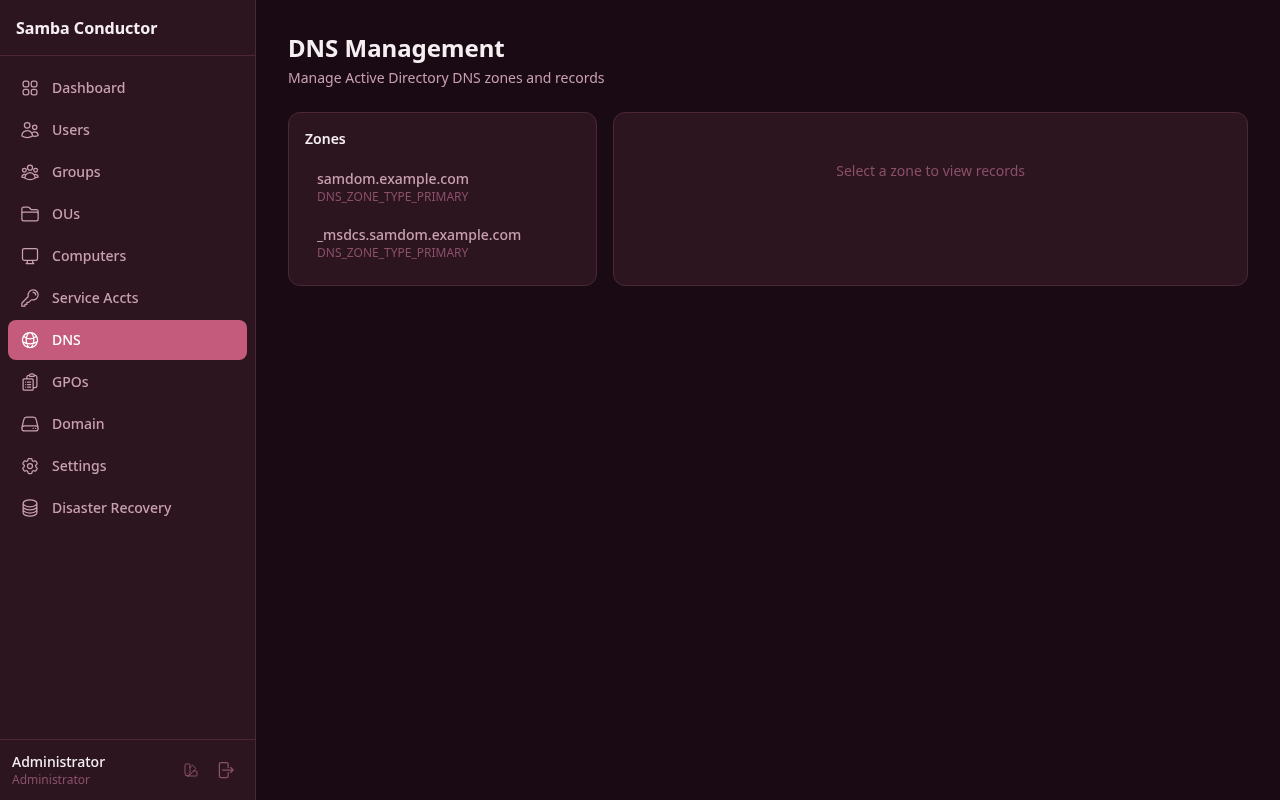
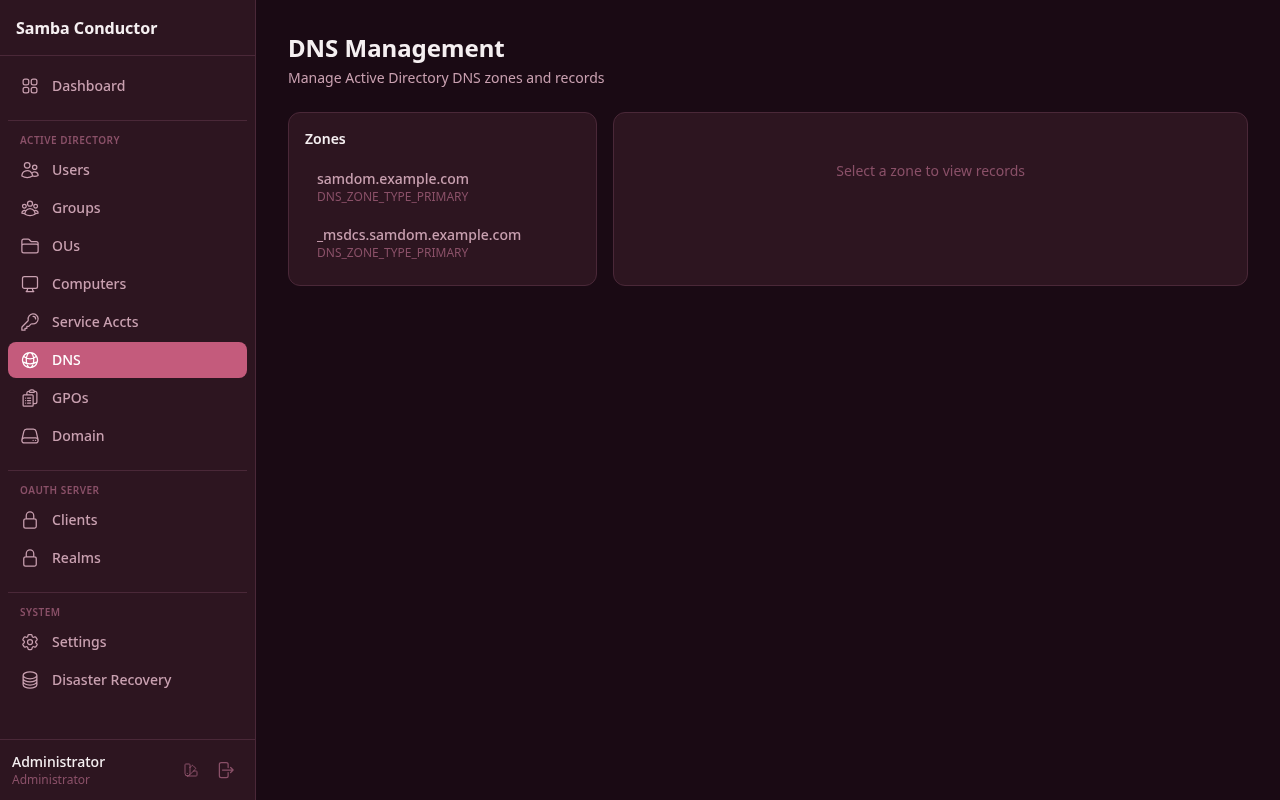
Add OAuth2 server documentation, admin interface, and E2E tests
- Introduce OAuth2 client and realm documentation
- Add admin views for managing OAuth clients and realms
- Update E2E tests to cover new OAuth2 functionality
- Enhance navigation with categorized OAuth admin sections

diff --git a/e2e/screenshots/capture-all.js b/e2e/screenshots/capture-all.js
@@ -21,6 +21,8 @@ const SCREENSHOTS = [
   { name: 'admin-dns', group: 'admin', capture: captureDNS },
   { name: 'admin-gpos', group: 'admin', capture: captureGPOs },
   { name: 'admin-domain', group: 'admin', capture: captureDomain },
+    {name: 'admin-oauth-clients', group: 'admin', capture: captureOAuthClients},
+    {name: 'admin-oauth-realms', group: 'admin', capture: captureOAuthRealms},
   { name: 'admin-settings', group: 'admin', capture: captureSettings },
   { name: 'admin-dr', group: 'admin', capture: captureDR },
   { name: 'selfservice-home', group: 'selfservice', capture: captureSelfServiceHome },
@@ -217,6 +219,20 @@ async function captureSettings({ page, ensureLoggedIn, tempPath }) {
   await page.click('[data-e2e="admin-sidebar-link-settings"]');
   await page.waitForSelector('[data-e2e="settings-btn-save-fields"]', { timeout: 10000 });
   await page.screenshot({ path: tempPath, fullPage: false });
+}
+
+async function captureOAuthClients({page, ensureLoggedIn, tempPath}) {
+    await ensureLoggedIn();
+    await page.click('[data-e2e="admin-sidebar-link-clients"]');
+    await page.waitForTimeout(2000);
+    await page.screenshot({path: tempPath, fullPage: false});
+}
+
+async function captureOAuthRealms({page, ensureLoggedIn, tempPath}) {
+    await ensureLoggedIn();
+    await page.click('[data-e2e="admin-sidebar-link-realms"]');
+    await page.waitForTimeout(2000);
+    await page.screenshot({path: tempPath, fullPage: false});
 }
 
 async function captureDR({ page, ensureLoggedIn, tempPath }) {

diff --git a/web/CLAUDE.md b/web/CLAUDE.md
@@ -59,13 +59,17 @@ app/
 ├── infra/           # Cron jobs, migrations
 ├── layouts/         # AdminLayout, SelfServiceLayout, AdminGuard...
 ├── samba/           # Server-only: sambaAuth, sambaUsers, sambaGroups, sambaLdap, sambaExec, sambaConfig
+├── oauth/           # OAuth2 server (clients, realms, admin pages)
+├── ous/             # Organizational Units management
 ├── selfservice/     # Self-service portal (profile, change password)
+├── serviceaccounts/ # gMSA management
 ├── settings/        # Admin settings (editable fields, sync account)
 ├── status/          # Server status
 └── users/           # User management
 
 server/
 ├── main.js          # Server entry point (all method imports)
+├── oauth2.js        # OAuth2 server setup (leaonline:oauth2-server)
 ├── rest.js          # REST API endpoints
 ├── health.js        # Server health
 └── metrics.js       # Prometheus metrics
@@ -94,15 +98,25 @@ meteor npm install [package]  # Always prefix with meteor
 
 ## Routes
 
-| Route              | Area         | Access             |
-|--------------------|--------------|--------------------|
-| `/login`           | Auth         | Anonymous only     |
-| `/`                | Self-Service | Any logged user    |
-| `/profile`         | Self-Service | Any logged user    |
-| `/change-password` | Self-Service | Any logged user    |
-| `/admin`           | Admin        | Domain Admins only |
-| `/admin/users`     | Admin        | Domain Admins only |
-| `/admin/groups`    | Admin        | Domain Admins only |
-| `/admin/domain`    | Admin        | Domain Admins only |
-| `/admin/settings`  | Admin        | Domain Admins only |
-| `/admin/dr`        | Admin        | Domain Admins only |
+| Route                     | Area                     | Access             |
+|---------------------------|--------------------------|--------------------|
+| `/login`                  | Auth                     | Anonymous only     |
+| `/`                       | Self-Service             | Any logged user    |
+| `/profile`                | Self-Service             | Any logged user    |
+| `/change-password`        | Self-Service             | Any logged user    |
+| `/admin`                  | Admin — Dashboard        | Domain Admins only |
+| `/admin/users`            | Admin — AD               | Domain Admins only |
+| `/admin/groups`           | Admin — AD               | Domain Admins only |
+| `/admin/ous`              | Admin — AD               | Domain Admins only |
+| `/admin/computers`        | Admin — AD               | Domain Admins only |
+| `/admin/service-accounts` | Admin — AD               | Domain Admins only |
+| `/admin/dns`              | Admin — AD               | Domain Admins only |
+| `/admin/gpos`             | Admin — AD               | Domain Admins only |
+| `/admin/domain`           | Admin — AD               | Domain Admins only |
+| `/admin/oauth/clients`    | Admin — OAuth            | Domain Admins only |
+| `/admin/oauth/realms`     | Admin — OAuth            | Domain Admins only |
+| `/admin/settings`         | Admin — System           | Domain Admins only |
+| `/admin/dr`               | Admin — System           | Domain Admins only |
+| `/oauth/authorize`        | OAuth2 (server-rendered) | Public             |
+| `/oauth/token`            | OAuth2 API               | Client credentials |
+| `/oauth/userinfo`         | OAuth2 API               | Bearer token       |

diff --git a/docs/admin/oauth-clients.md b/docs/admin/oauth-clients.md
@@ -1,0 +1,70 @@
+# OAuth Clients
+
+![OAuth Clients](../screenshots/admin-oauth-clients.png)
+
+OAuth clients represent third-party applications that can authenticate users via the Samba Conductor OAuth2 server.
+
+## Creating a Client
+
+1. Navigate to **Admin** > **OAuth Clients**
+2. Click **New Client**
+3. Fill in:
+    - **Client Name** — Display name (e.g., "Grafana", "Portainer")
+    - **Description** — Optional description
+    - **Redirect URIs** — One per line. Must exactly match the callback URL configured in the application
+    - **Scopes** — Which user data the client can access (openid, profile, email, groups, phone)
+    - **Trusted** — If checked, users won't see a consent screen
+4. Click **Create Client**
+5. **Save the Client ID and Secret immediately** — the secret is shown only once
+
+## Client Credentials
+
+After creation, you'll see:
+
+- **Client ID** — A UUID used to identify the application
+- **Client Secret** — A random 64-character hex string. **Save it now** — it cannot be retrieved later
+
+If you lose the secret, click **Reset Secret** to generate a new one (the old one is immediately invalidated).
+
+## Scopes
+
+| Scope     | Data Returned                                   |
+|-----------|-------------------------------------------------|
+| `openid`  | User ID (sub)                                   |
+| `profile` | Display name, given name, family name, username |
+| `email`   | Email address                                   |
+| `groups`  | AD group memberships                            |
+| `phone`   | Phone number                                    |
+
+## Example: Connecting Grafana
+
+```ini
+[auth.generic_oauth]
+enabled = true
+name = Samba Conductor
+client_id = <Client ID from admin panel>
+client_secret = <Client Secret shown once>
+auth_url = https://conductor.example.com/oauth/authorize
+token_url = https://conductor.example.com/oauth/token
+api_url = https://conductor.example.com/oauth/userinfo
+scopes = openid profile email groups
+```
+
+## Example: Connecting Portainer
+
+```
+OAuth URL: https://conductor.example.com/oauth/authorize
+Token URL: https://conductor.example.com/oauth/token
+User Info URL: https://conductor.example.com/oauth/userinfo
+Client ID: <from admin panel>
+Client Secret: <shown once>
+Scopes: openid profile email groups
+```
+
+## OAuth2 Endpoints
+
+| Endpoint           | Method | Purpose                              |
+|--------------------|--------|--------------------------------------|
+| `/oauth/authorize` | GET    | Authorization page (login + consent) |
+| `/oauth/token`     | POST   | Exchange code for access token       |
+| `/oauth/userinfo`  | GET    | Get user profile (Bearer token)      |

diff --git a/docs/admin/oauth-realms.md b/docs/admin/oauth-realms.md
@@ -1,0 +1,42 @@
+# OAuth Realms
+
+![OAuth Realms](../screenshots/admin-oauth-realms.png)
+
+Realms provide logical grouping for OAuth clients, allowing different access policies per group of applications.
+
+## Default Realm
+
+A "Default" realm is created automatically during initial setup. It allows all users and all scopes.
+
+## Creating a Realm
+
+1. Navigate to **Admin** > **OAuth Realms**
+2. Click **New Realm**
+3. Fill in:
+    - **Name** — Unique identifier (e.g., "production", "staging", "partner-apps")
+    - **Display Name** — Human-readable name
+    - **Allowed Scopes** — Which scopes clients in this realm can request
+    - **AD Group Restriction** — Optional: limit access to members of a specific AD group
+4. Click **Create**
+
+## AD Group Restriction
+
+When set, only users who are members of the specified AD group can authenticate via clients in this realm. Enter the
+full DN:
+
+```
+CN=OAuth-Users,CN=Users,DC=samdom,DC=example,DC=com
+```
+
+## Assigning Clients to Realms
+
+When creating an OAuth client, select the realm it belongs to. Each client belongs to exactly one realm.
+
+## Use Cases
+
+| Realm        | Purpose                     | AD Group                  |
+|--------------|-----------------------------|---------------------------|
+| `default`    | All applications, all users | (none)                    |
+| `production` | Production apps             | `CN=Production-Users,...` |
+| `staging`    | Staging/test apps           | `CN=Developers,...`       |
+| `partner`    | External partner apps       | `CN=Partners,...`         |

diff --git a/README.md b/README.md
@@ -44,6 +44,7 @@ Samba 4 Active Directory. It simplifies AD administration through a clean UI wit
 - **DNS Management** — Zones and records management
 - **Group Policy (GPO)** — Create, link, and manage Group Policy Objects
 - **Service Accounts** — Group Managed Service Accounts (gMSA)
+- **OAuth2 Server** — Authorization Code flow for third-party app authentication (Grafana, Portainer, etc.)
 - **Self-Service Portal** — Users can change passwords and edit their profiles
 - **Disaster Recovery** — Encrypted AD backups to S3-compatible storage
 - **DC Replication** — Automatic replica DC setup via environment variables
@@ -123,6 +124,8 @@ Full documentation is available in the [docs/](docs/README.md) directory:
 [DNS](docs/admin/dns-management.md) ·
 [GPOs](docs/admin/gpo-management.md) ·
 [DR & Backup](docs/admin/disaster-recovery.md) ·
+[OAuth Clients](docs/admin/oauth-clients.md) ·
+[OAuth Realms](docs/admin/oauth-realms.md) ·
 [Settings](docs/admin/settings.md)
 
 **For Users:**

diff --git a/CHANGELOG.md b/CHANGELOG.md
@@ -19,6 +19,11 @@ The format is based on [Keep a Changelog](https://keepachangelog.com/en/1.1.0/).
 - DNS zone and record management
 - Group Policy Object (GPO) management
 - Domain information and functional levels
+- OAuth2 Authorization Server (leaonline:oauth2-server) with LDAP-backed authentication
+- OAuth2 client management (create, edit, reset secret, delete)
+- OAuth2 realm system (logical grouping, AD group restrictions, per-realm scopes)
+- OAuth2 endpoints (/oauth/authorize, /oauth/token, /oauth/userinfo)
+- Admin sidebar organized by sections (Active Directory, OAuth Server, System)
 - Per-session encrypted credentials (AES-256-GCM, 30min TTL)
 - Sync account with auto-generated password
 - Disaster Recovery system (DR Key, AD sync, password hash backup)

diff --git a/CLAUDE.md b/CLAUDE.md
@@ -28,6 +28,7 @@ Each subdirectory has its own `CLAUDE.md` with specific instructions.
 
 - **Self-Service Portal** (`/`) — Users can view profile, edit allowed fields, change expired passwords
 - **Admin Panel** (`/admin/*`) — Domain Admins only: user/group CRUD, domain info, settings, disaster recovery
+- **OAuth2 Server** — Authorization Code flow, client/realm management, LDAP-backed authentication for third-party apps
 - **Disaster Recovery** — AD sync to MongoDB, encrypted backups to S3, restore from snapshots
 - **Security** — Per-session encrypted credentials (no stored admin passwords), DR Key for backup encryption
 

diff --git a/docs/README.md b/docs/README.md
@@ -21,6 +21,8 @@ Active Directory Domain Controller managed by Samba Conductor.
 - [Disaster Recovery](admin/disaster-recovery.md) — Backup, sync, restore, and DR key management
 - [Security](admin/security.md) — Authentication, session management, and best practices
 - [Settings](admin/settings.md) — Self-service configuration and sync account
+- [OAuth Clients](admin/oauth-clients.md) — Registering and managing OAuth2 client applications
+- [OAuth Realms](admin/oauth-realms.md) — Logical grouping and access control for OAuth clients
 
 ## For Users
 
